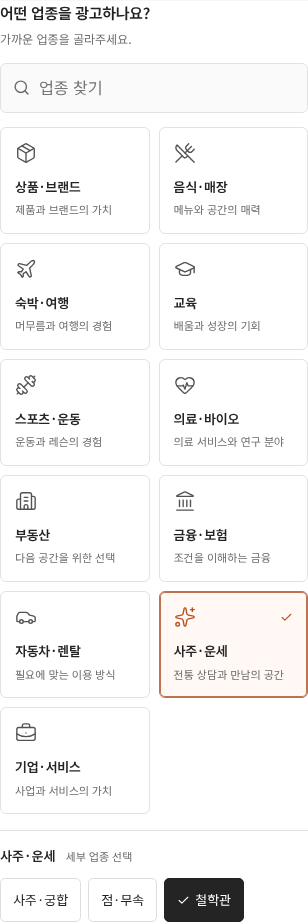
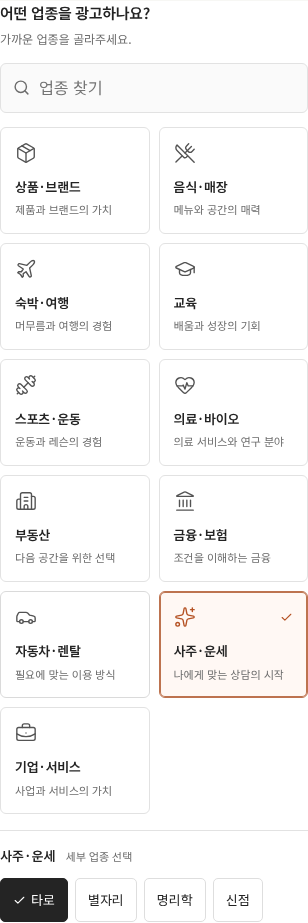
Refine fortune services into four consultation categories

diff --git a/src/industry.ts b/src/industry.ts
@@ -11,9 +11,14 @@ export const productCategories = [
   ['securities', '증권'], ['stocks', '주식'], ['crypto', '코인·디지털 자산'],
   ['finance', '금융'], ['banking', '은행'], ['lease', '리스'], ['rental', '렌탈'],
   ['corporate', '기업 홍보'],
-  ['saju', '사주·궁합'], ['divination', '점·무속'], ['fortunehouse', '철학관'],
+  ['tarot', '타로'], ['astrology', '별자리'], ['myeongri', '명리학'], ['sinjeom', '신점'],
 ] as const;
 export type ProductCategory = typeof productCategories[number][0];
+const legacyCategories:Readonly<Record<string,ProductCategory>>={saju:'myeongri',fortunehouse:'myeongri',divination:'sinjeom'};
+export function resolveIndustryCategory(value:unknown):ProductCategory|undefined {
+  const category=typeof value==='string'?(legacyCategories[value]??value):undefined;
+  return productCategories.find(([id])=>id===category)?.[0];
+}
 export type IndustryGroupId = 'products'|'dining'|'travel'|'learning'|'sports'|'health'|'property'|'finance'|'mobility'|'fortune'|'business';
 export type IndustryGroup = {id:IndustryGroupId;label:string;description:string;categoryIds:readonly ProductCategory[]};
 export const industryGroups:readonly IndustryGroup[] = [
@@ -26,7 +31,7 @@ export const industryGroups:readonly IndustryGroup[] = [
   {id:'property',label:'부동산',description:'다음 공간을 위한 선택',categoryIds:['realestate']},
   {id:'finance',label:'금융·보험',description:'조건을 이해하는 금융',categoryIds:['insurance','securities','stocks','crypto','finance','banking']},
   {id:'mobility',label:'자동차·렌탈',description:'필요에 맞는 이용 방식',categoryIds:['automotive','lease','rental']},
-  {id:'fortune',label:'사주·운세',description:'전통 상담과 만남의 공간',categoryIds:['saju','divination','fortunehouse']},
+  {id:'fortune',label:'사주·운세',description:'나에게 맞는 상담의 시작',categoryIds:['tarot','astrology','myeongri','sinjeom']},
   {id:'business',label:'기업·서비스',description:'사업과 서비스의 가치',categoryIds:['services','corporate']},
 ];
 const physicalCategories:readonly ProductCategory[] = ['packaging','food','beauty','electronics','fashion','home','industrial','other','automotive'];
@@ -213,20 +218,25 @@ const content:Record<ProductCategory,IndustryContent> = {
     ['사업·협력 안내','사업 분야와 문의 방법','함께 만들어갈 기회를 만나보세요','협력 문의'],
     ['사업 정보','제공한 사업과 보유 역량','협력 전에 살펴보는 기업 이야기','사업 분야 보기'],
   ]},
-  saju:{placeholder:'예: 사주·궁합 상담소 이름',audience:'사주·궁합 상담 분야와 예약 방법을 살펴보는 고객',directions:[
-    ['상담소 소개','상담 공간과 대화의 분위기','사주와 궁합, 차분히 이야기해보세요','상담소 보기'],
-    ['상담·예약 안내','상담 주제와 예약 방법','궁금한 주제로 상담을 시작하세요','상담 예약 문의'],
-    ['이용 정보','제공한 상담 방식·시간·비용','방문 전에 살펴보는 상담 안내','이용 정보 보기'],
+  tarot:{placeholder:'예: 타로 상담소 이름',audience:'타로 상담 주제와 예약 방법을 살펴보는 고객',directions:[
+    ['타로 상담 소개','카드와 상담 공간의 분위기','카드와 함께 나누는 나의 이야기','타로 상담 보기'],
+    ['상담·예약 안내','상담 주제와 예약 방법','궁금한 주제로 타로 상담을 시작하세요','타로 예약 문의'],
+    ['이용 정보','제공한 상담 방식·시간·비용','상담 전에 살펴보는 타로 이용 안내','이용 정보 보기'],
   ]},
-  divination:{placeholder:'예: 점·무속 상담소 이름',audience:'점·무속 상담 방식과 이용 정보를 확인하는 고객',directions:[
-    ['상담소 소개','공간과 상담 방식 소개','나의 이야기를 나누는 상담','상담소 보기'],
-    ['상담·예약 안내','상담 일정과 문의 방법','상담 일정과 예약 방법을 만나보세요','예약 문의'],
-    ['이용 정보','제공한 상담 절차와 비용','상담 전에 살펴보는 이용 안내','이용 안내 보기'],
+  astrology:{placeholder:'예: 별자리 상담 서비스 이름',audience:'별자리 상담 내용과 이용 방법을 살펴보는 고객',directions:[
+    ['별자리 상담 소개','별과 상담 브랜드의 분위기','별자리를 주제로 나누는 이야기','별자리 상담 보기'],
+    ['상담·예약 안내','상담 주제와 신청 방법','관심 있는 별자리 상담을 만나보세요','별자리 상담 문의'],
+    ['이용 정보','제공한 상담 과정과 이용 조건','시작 전에 살펴보는 별자리 상담 안내','이용 안내 보기'],
   ]},
-  fortunehouse:{placeholder:'예: 철학관 이름',audience:'철학관의 상담 분야와 방문 방법을 살펴보는 고객',directions:[
-    ['철학관 소개','철학관의 공간과 상담 분야','전통 명리 상담을 만나는 공간','철학관 보기'],
-    ['상담·예약 안내','상담 주제와 방문 예약','궁금한 이야기를 나눌 시간을 예약하세요','방문 예약 문의'],
-    ['상담 분야 안내','제공한 분야·상담 방식·이용 정보','방문 전에 알아보는 상담 분야','상담 분야 보기'],
+  myeongri:{placeholder:'예: 명리학 상담소·철학관 이름',audience:'명리학·사주·궁합 상담 분야와 방문 방법을 살펴보는 고객',directions:[
+    ['명리학 상담 소개','명리학 상담 공간과 분야','사주와 궁합, 차분히 이야기해보세요','명리학 상담 보기'],
+    ['상담·예약 안내','상담 주제와 방문 예약','궁금한 이야기를 나눌 시간을 예약하세요','명리학 예약 문의'],
+    ['상담 분야 안내','제공한 분야·상담 방식·이용 정보','방문 전에 알아보는 명리학 상담 분야','상담 분야 보기'],
+  ]},
+  sinjeom:{placeholder:'예: 신점 상담소 이름',audience:'신점 상담 방식과 예약 정보를 확인하는 고객',directions:[
+    ['신점 상담 소개','공간과 상담 방식 소개','나의 이야기를 나누는 신점 상담','신점 상담 보기'],
+    ['상담·예약 안내','상담 일정과 문의 방법','신점 상담 일정과 예약 방법을 만나보세요','신점 예약 문의'],
+    ['이용 정보','제공한 상담 절차와 비용','상담 전에 살펴보는 신점 이용 안내','이용 안내 보기'],
   ]},
 };
 export const industryPlaceholder = (category:ProductCategory):string => content[category].placeholder;

diff --git a/tests/industries.spec.ts b/tests/industries.spec.ts
@@ -20,7 +20,7 @@ async function serviceWizard(page:Page,category:string,name:string,creative=fals
  await wizard.getByRole('button',{name:'다음',exact:true}).click();return wizard;
 }
 
-test('eleven visual groups reveal only their own industries and all thirty-seven are searchable',async({page})=>{
+test('eleven visual groups reveal only their own industries and all thirty-eight are searchable',async({page})=>{
  test.setTimeout(60000);await page.goto('/');
  await expect(page.locator('.business-options').getByRole('button')).toHaveCount(11);
  await page.getByRole('button',{name:'스포츠·운동 업종으로 광고 만들기',exact:true}).click();
@@ -39,9 +39,9 @@ test('eleven visual groups reveal only their own industries and all thirty-seven
  await expect(picker.getByRole('button',{name:'서비스 업종',exact:true})).toHaveAttribute('aria-pressed','true');
 });
 
-test('service industries including fortune consultations prepare ads without a photo or dimensions',async({page})=>{
+test('service industries including all four fortune consultations prepare ads without a photo or dimensions',async({page})=>{
  test.setTimeout(60000);
- for(const [category,name] of [['pilates','필라테스 스튜디오'],['lodging','모먼트 호텔'],['hospital','한결 의원'],['banking','은행 상담 서비스'],['saju','사주·궁합 상담소'],['divination','점·무속 상담소'],['fortunehouse','전통 철학관']]){
+ for(const [category,name] of [['pilates','필라테스 스튜디오'],['lodging','모먼트 호텔'],['hospital','한결 의원'],['banking','은행 상담 서비스'],['tarot','타로 상담소'],['astrology','별자리 상담소'],['myeongri','명리학 상담소'],['sinjeom','신점 상담소']]){
   const wizard=await serviceWizard(page,category,name,category==='banking');
   await expect(wizard.getByRole('region',{name:'광고 방향과 스타일',exact:true})).toBeVisible();
   await wizard.getByRole('button',{name:'편집 시작',exact:true}).click();await expect(page).toHaveURL(/#studio$/);
@@ -70,14 +70,21 @@ test('selected premium direction and optional notes survive save, import and rea
  await page.getByLabel('프로젝트 파일 선택').setInputFiles({name:'premium-direction.json',mimeType:'application/json',buffer:Buffer.from(JSON.stringify(data))});await expect(page.getByRole('status')).toContainText('프로젝트를 열었습니다');expect((await downloadJSON(page)).campaign.creative).toEqual(data.campaign.creative);
 });
 
-test('older projects keep their source and copy when choosing a new industry and creative look',async({page})=>{
+test('legacy fortune JSON and device projects keep their source and copy with migrated industries',async({page})=>{
  await page.goto('/#studio');const bytes=await sharp({create:{width:400,height:300,channels:4,background:'#b87844'}}).png().toBuffer();
  await page.getByLabel('상품 사진 추가').setInputFiles({name:'original.png',mimeType:'image/png',buffer:bytes});await expect(page.getByRole('status')).toContainText('원본 사진');
  const legacy=await downloadJSON(page);if(legacy.campaign)delete legacy.campaign.creative;
- legacy.copy.ko.title='고객이 작성한 제목';legacy.background.color='#ffeedd';
+ legacy.copy.ko.title='고객이 작성한 제목';legacy.background.color='#ffeedd';legacy.productProfile.category='fortunehouse';
  const confirmImport=page.waitForEvent('dialog').then(async dialog=>{expect(dialog.type()).toBe('confirm');expect(dialog.message()).toBe('저장하지 않은 편집을 닫고 프로젝트를 불러올까요?');await dialog.accept();});
  await page.getByLabel('프로젝트 파일 선택').setInputFiles({name:'legacy-project.json',mimeType:'application/json',buffer:Buffer.from(JSON.stringify(legacy))});await confirmImport;await expect(page.getByRole('status')).toContainText('프로젝트를 열었습니다');
- const loaded=await downloadJSON(page);expect(loaded.copy).toEqual(legacy.copy);expect(loaded.background).toEqual(legacy.background);expect(loaded.product).toEqual(legacy.product);
+ const loaded=await downloadJSON(page);expect(loaded.copy).toEqual(legacy.copy);expect(loaded.background).toEqual(legacy.background);expect(loaded.product).toEqual(legacy.product);expect(loaded.productProfile).toEqual({...legacy.productProfile,category:'myeongri'});
+ const deviceProject={...legacy,id:'legacy-divination-device',name:'이전 신점 프로젝트',productProfile:{...legacy.productProfile,category:'divination'}};
+ await page.evaluate(async project=>{
+  const database=await new Promise<IDBDatabase>((resolve,reject)=>{const request=indexedDB.open('aiadcast-editor',1);request.onupgradeneeded=()=>request.result.createObjectStore('projects',{keyPath:'id'});request.onsuccess=()=>resolve(request.result);request.onerror=()=>reject(request.error);});
+  try{await new Promise<void>((resolve,reject)=>{const transaction=database.transaction('projects','readwrite');transaction.objectStore('projects').put(project);transaction.oncomplete=()=>resolve();transaction.onerror=()=>reject(transaction.error);transaction.onabort=()=>reject(transaction.error);});}finally{database.close();}
+ },deviceProject);
+ await page.goto('/#projects');await page.getByRole('button',{name:/이전 신점 프로젝트/}).click();
+ const migrated=await downloadJSON(page);expect(migrated.productProfile).toEqual({...legacy.productProfile,category:'sinjeom'});expect(migrated.copy).toEqual(legacy.copy);expect(migrated.product).toEqual(legacy.product);expect(migrated.dimensions).toEqual(legacy.dimensions);
  await selectIndustry(page,'corporate');
  const options=page.locator('.editor-container:visible .creative-options-compact');await options.locator('summary').click();
  await options.locator('.creative-look-card').filter({hasText:'모던 테크'}).click();let updated=await downloadJSON(page);

diff --git a/src/conversation.ts b/src/conversation.ts
@@ -1,5 +1,6 @@
 import type {Project} from './model.ts';
 import {isImageFormat} from './formats.ts';
+import {resolveIndustryCategory} from './industry.ts';
 export const directionScopes=[['auto','요청 전체'],['background','배경'],['lighting','조명·분위기'],['composition','구도·연출'],['print','상품 인쇄'],['product-color','상품 색상'],['copy','광고 문구'],['format','비율·규격 표시']] as const;
 export type DirectionScope=typeof directionScopes[number][0];
 export type QuickEdit={kind:'background';value:string}|{kind:'title';value:string}|{kind:'format';value:Project['format']}|{kind:'dimensions';value:boolean};
@@ -62,7 +63,7 @@ export function appendDirection(p:Project,text:string,scope:DirectionScope,allow
  const turn:DirectionTurn={id:crypto.randomUUID(),text:trimmed,scope:resolved,allowAppearanceChange:changesProduct(resolved)&&allowAppearanceChange,state:'recorded',createdAt:new Date().toISOString(),context:{sourceHash:p.product?.sha256??null,locale:p.locale,category:p.productProfile.category,productName:p.productName},before:priorValue(p,quickEdit(trimmed,resolved))};
  return {...p,conversation:{version:1,turns:[...c.turns,turn]}};
 }
-export function directionIsCurrent(p:Project,t:DirectionTurn){return t.context.sourceHash===(p.product?.sha256??null)&&t.context.locale===p.locale&&t.context.category===p.productProfile.category&&t.context.productName===p.productName;}
+export function directionIsCurrent(p:Project,t:DirectionTurn){return t.context.sourceHash===(p.product?.sha256??null)&&t.context.locale===p.locale&&resolveIndustryCategory(t.context.category)===p.productProfile.category&&t.context.productName===p.productName;}
 export function quickEditIssue(p:Project,t:DirectionTurn):string|null{
  const edit=quickEdit(t.text,t.scope);
  if(t.state!=='recorded'||!edit)return '이 요청은 바로 편집할 수 없습니다.';

diff --git a/src/storage.ts b/src/storage.ts
@@ -1,4 +1,5 @@
 import type { Project } from './model';
+import {parseProfile} from './product';
 async function db(){return new Promise<IDBDatabase>((resolve,reject)=>{const req=indexedDB.open('aiadcast-editor',1);req.onupgradeneeded=()=>req.result.createObjectStore('projects',{keyPath:'id'});req.onsuccess=()=>resolve(req.result);req.onerror=()=>reject(req.error);});}
 export async function saveProject(p:Project){const database=await db();try{await new Promise<void>((resolve,reject)=>{const tx=database.transaction('projects','readwrite');tx.objectStore('projects').put(p);tx.oncomplete=()=>resolve();tx.onerror=()=>reject(tx.error);tx.onabort=()=>reject(tx.error);});}finally{database.close();}}
-export async function projects(){const database=await db();try{return await new Promise<Project[]>((resolve,reject)=>{const req=database.transaction('projects').objectStore('projects').getAll();req.onsuccess=()=>resolve((req.result as Project[]).sort((a,b)=>b.updatedAt.localeCompare(a.updatedAt)));req.onerror=()=>reject(req.error);});}finally{database.close();}}
+export async function projects(){const database=await db();try{return await new Promise<Project[]>((resolve,reject)=>{const req=database.transaction('projects').objectStore('projects').getAll();req.onsuccess=()=>{try{resolve((req.result as Project[]).map(p=>({...p,productProfile:parseProfile(p.productProfile)})).sort((a,b)=>b.updatedAt.localeCompare(a.updatedAt)));}catch(error){reject(error);}};req.onerror=()=>reject(req.error);});}finally{database.close();}}

diff --git a/src/product.ts b/src/product.ts
@@ -1,5 +1,5 @@
 import type {Project} from './model.ts';
-import {productCategories,isPhysicalCategory} from './industry.ts';
+import {isPhysicalCategory,resolveIndustryCategory} from './industry.ts';
 import type {ProductCategory} from './industry.ts';
 export {productCategories} from './industry.ts';
 export type {ProductCategory} from './industry.ts';
@@ -17,8 +17,9 @@ export function parseProfile(value:unknown):ProductProfile {
   if(value===undefined)return defaultProfile(); // Earlier project files remain compatible.
   if(!value||typeof value!=='object')throw Error('상품 정보 형식이 올바르지 않습니다.');
   const p=value as ProductProfile;
-  if(!productCategories.some(([key])=>key===p.category)||!specTypes.some(([key])=>key===p.specType)||typeof p.material!=='string'||p.material.length>160)throw Error('상품 분류 또는 규격 형식을 확인해주세요.');
-  return {category:p.category,specType:p.specType,material:p.material};
+  const category=resolveIndustryCategory(p.category);
+  if(!category||!specTypes.some(([key])=>key===p.specType)||typeof p.material!=='string'||p.material.length>160)throw Error('상품 분류 또는 규격 형식을 확인해주세요.');
+  return {category,specType:p.specType,material:p.material};
 }
 export function dimensionAxes(profile?:ProductProfile):('width'|'depth'|'height')[] {
   if(profile?.specType==='none')return [];

diff --git a/README.md b/README.md
@@ -18,9 +18,9 @@
 
 ## 업종별 광고 방향과 프리미엄 스타일
 
-**11개 업종 카드 → 선택한 그룹의 세부 업종 → 광고 방향**으로 고릅니다. 음식점·식품·숙박·여행·리스/렌탈·교육·운동·병원·바이오·부동산·금융/보험·사주/운세 등 총 37개 분류를 제공합니다. 편집기에서는 업종 선택을 접어두고 검색하거나 변경할 수 있습니다.
+**11개 업종 카드 → 선택한 그룹의 세부 업종 → 광고 방향**으로 고릅니다. 음식점·식품·숙박·여행·리스/렌탈·교육·운동·병원·바이오·부동산·금융/보험·사주/운세 등 총 38개 분류를 제공합니다. 편집기에서는 업종 선택을 접어두고 검색하거나 변경할 수 있습니다.
 
-사주·운세 그룹에서 사주·궁합, 점·무속, 철학관을 선택할 수 있습니다. 소개, 상담·예약, 이용 정보에 맞춰 광고를 준비하며 미래나 효능을 보장하는 문구를 추천하지 않습니다.
+사주·운세 카드를 열면 **타로·별자리·명리학·신점** 네 가지로 구분해 선택할 수 있습니다. 각 분야의 소개, 상담·예약, 이용 정보에 맞춰 광고를 준비합니다.
 
 각 업종에 맞는 목적 3가지와 에디토리얼·시그니처·내추럴·모던 테크 4가지 스타일을 선택합니다. 추가 요청은 선택 사항이며, 선택만으로 기본 문구·배경색·장식을 적용한 편집 초안을 시작할 수 있습니다. 서비스는 사진·규격 없이 시작하고, 실물 규격이 필요하면 업종과 관계없이 직접 켤 수 있습니다. 목적·스타일·추가 입력은 저장·백업·생성 요청에 함께 포함됩니다.
 
@@ -54,7 +54,7 @@
 
 `release/aiadcast-studio.html`을 PC에 내려받아 Chrome 또는 Edge에서 여세요. 글꼴과 프로그램을 포함한 단일 파일이며 별도 설치가 필요 없습니다. 휴대폰 화면에 맞게 구성했지만, 모바일의 로컬 HTML 실행·다운로드 지원은 앱/브라우저마다 다릅니다. Android 설치 파일과 공개 체험 URL은 아직 제공하지 않습니다.
 
-1. 광고 정보에서 ‘사진과 문구로 직접 만들기’(기본) 또는 ‘새로운 광고 이미지 만들기’를 선택합니다. 광고 업종과 사진을 입력합니다. 서비스 28종은 사진이 선택 사항입니다. 배경이 있는 사진은 배경도 그대로 표시됩니다. 상품만 사용하려면 투명 PNG를 넣으세요.
+1. 광고 정보에서 ‘사진과 문구로 직접 만들기’(기본) 또는 ‘새로운 광고 이미지 만들기’를 선택합니다. 광고 업종과 사진을 입력합니다. 서비스 29종은 사진이 선택 사항입니다. 배경이 있는 사진은 배경도 그대로 표시됩니다. 상품만 사용하려면 투명 PNG를 넣으세요.
 2. ‘문구·언어’에서 한국어와 영어 문구를 각각 입력합니다. 초기 문구는 예시이며 자동 번역되지 않습니다.
 3. ‘배경’에서 색상이나 배경 사진을 교체합니다.
 4. ‘규격’에서 직육면체·평면·지름/높이·표시 없음 중 선택하고 치수를 입력합니다. ‘표시 안 함 / 규격 요약만 / 요약과 치수선’ 중 하나를 선택합니다. 숨겨도 치수 입력값은 보존됩니다. 선의 두 점은 직접 맞춥니다.
@@ -66,18 +66,18 @@
 
 ## 이미지 제작 방식
 
-- 사진과 문구로 직접 만들기: 현재 동작하는 직접 편집입니다. 사진·문구·배경·선택한 규격 표시를 편집하고 PNG로 내보냅니다. 서비스 28종은 사진 없이 문구와 배경으로 구성할 수 있습니다.
+- 사진과 문구로 직접 만들기: 현재 동작하는 직접 편집입니다. 사진·문구·배경·선택한 규격 표시를 편집하고 PNG로 내보냅니다. 서비스 29종은 사진 없이 문구와 배경으로 구성할 수 있습니다.
 - 새로운 광고 이미지 만들기: 사진과 광고 내용을 참고 자료로 두고 새로운 광고의 제작 방향을 저장합니다. 규격을 사용하는 프로젝트만 치수를 함께 참고합니다. 새 상품이나 장면은 원본과 다르게 표현될 수 있으며 실물 형상·설계도 재현을 보장하지 않습니다. 현재 AI 연결 전이므로 생성 결과 대신 참고 사진을 표시하고 생성/PNG 출력을 막습니다.
 
 제작 방식과 규격의 사용/표시 여부는 각각 선택합니다. 규격을 사용하는 프로젝트는 표시를 숨겨도 치수를 참고값으로 포함합니다. 규격 사용을 끈 프로젝트는 생성 요청에 치수를 넣지 않습니다. 선택과 요청 문구는 저장·복원되며, 원본 방식으로 돌아오면 같은 첨부 파일과 편집 정보를 다시 사용합니다. 예전 프로젝트는 원본 보존 방식으로 열립니다.
 
 ## 규격 없는 업종 광고
 
-서비스 28종과 자동차·모빌리티로 업종을 바꾸면 ‘규격 정보 사용’이 기본적으로 꺼집니다. 새 광고는 모든 업종에서 규격이 선택 사항입니다. 필요한 경우 직접 규격 사용을 켤 수 있으며, 같은 업종을 다시 선택해도 사용자가 켠 규격 설정을 유지합니다.
+서비스 29종과 자동차·모빌리티로 업종을 바꾸면 ‘규격 정보 사용’이 기본적으로 꺼집니다. 새 광고는 모든 업종에서 규격이 선택 사항입니다. 필요한 경우 직접 규격 사용을 켤 수 있으며, 같은 업종을 다시 선택해도 사용자가 켠 규격 설정을 유지합니다.
 
 - **규격 사용 안 함:** 치수 입력을 요구하지 않고 생성 요청의 specifications는 빈 배열입니다. 치수선과 규격 표를 만들지 않으며 사진이 있으면 그 공간을 사진 영역으로 활용합니다. 이전에 입력한 수치는 기기/백업 데이터에만 남겨 복구할 수 있게 합니다.
 - **규격 사용 + 표시 안 함:** 치수를 생성 참고값으로 사용하면서 완성 이미지에서는 숨깁니다. ‘규격 없음’과 다른 설정입니다.
-- **서비스 28종:** 상품·서비스명, 서비스 내용, 광고 문구를 저장할 수 있습니다. 사진 없이 문구·배경만으로 PNG를 만들거나 교실·상담·매장 사진 및 로고를 사용할 수 있습니다. 사진 없는 창작 요청도 업종별 추천 방향만으로 준비할 수 있으며, 실제 AI 연결 전까지 생성은 대기 상태입니다.
+- **서비스 29종:** 상품·서비스명, 서비스 내용, 광고 문구를 저장할 수 있습니다. 사진 없이 문구·배경만으로 PNG를 만들거나 교실·상담·매장 사진 및 로고를 사용할 수 있습니다. 사진 없는 창작 요청도 업종별 추천 방향만으로 준비할 수 있으며, 실제 AI 연결 전까지 생성은 대기 상태입니다.
 - **자동차:** 치수 없이 실제 차량 사진을 사용하는 광고를 만들 수 있습니다. ‘사진과 문구로 직접 만들기’에서 차량을 다른 차로 다시 그리지 않습니다. 실제 차량 보존 모드에서는 원본 사진이 필요합니다.
 
 기존에 입력한 문구·사진·치수 값은 업종을 바꿔도 지워지지 않습니다. 필요하면 ‘규격 정보 사용’을 켜고 규격 형식을 선택한 뒤, 표시 여부를 직접 정하세요. 보험의 보장 내용·가격·조건 등을 자동으로 만들어 넣는 기능은 없으며 광고 문구에 직접 입력합니다.

diff --git a/docs/industry-advertising.md b/docs/industry-advertising.md
@@ -16,15 +16,15 @@
 | 금융·보험 | 보험, 증권, 주식, 코인·디지털 자산, 금융, 은행 |
 | 자동차·렌탈 | 자동차·모빌리티, 리스, 렌탈 |
 | 기업·서비스 | 서비스 업종, 기업 홍보 |
-| 사주·운세 | 사주·궁합, 점·무속, 철학관 |
+| 사주·운세 | 타로, 별자리, 명리학, 신점 |
 
-총 37개 분류이며, 위 표는 개발·검토용 전체 목록이다. 앱에서는 그룹과 선택한 세부 업종으로 나누어 보여준다.
+총 38개 분류이며, 위 표는 개발·검토용 전체 목록이다. 앱에서는 그룹과 선택한 세부 업종으로 나누어 보여준다. 사주·운세 카드를 열면 타로·별자리·명리학·신점 네 가지를 선택할 수 있다.
 
 ## 요청문 없이 고르는 제작 방향
 
 새 제작은 업종과 이름 → 사진·정보 → 광고 방향으로 이어진다. 업종별 목적 카드 3개와 공통 시각 스타일 4개를 제공한다. 목적의 이름·문구·행동 안내는 업종에 맞게 바뀐다. 예를 들어 음식점은 매장 소개/방문·예약 안내/메뉴 이야기, 필라테스는 스튜디오 소개/수업·체험 안내/프로그램 소개, 은행은 은행·서비스 소개/이용·상담 안내/상품·조건 안내를 고른다.
 
-사주·운세 그룹은 소개, 상담·예약, 이용 정보의 세 방향을 제공한다. 상담 분야·이용 방법 등 사업자가 제공한 정보를 바탕으로 구성하고 미래나 효능을 보장하는 문구를 추천하지 않는다.
+사주·운세의 네 분야는 각각 소개, 상담·예약, 이용 정보의 세 방향을 제공한다. 상담 분야·이용 방법 등 사업자가 제공한 정보를 바탕으로 구성한다.
 
 스타일은 에디토리얼, 시그니처, 내추럴, 모던 테크다. 편집용 색상·글자 대비·절제된 벡터 장식을 적용하며 원본 상품 사진을 다시 그리지 않는다. 화면의 미니 스타일 카드는 디자인 참고 그림이고 AI 생성 사례가 아니다.
 
@@ -34,13 +34,13 @@
 
 ## 상품·서비스·규격
 
-서비스 28종은 사진과 규격 없이 시작할 수 있다. 실물 상품 8종과 자동차는 원본 사진으로 직접 구성할 때 사진이 필요하다. 실제 음식 제품은 ‘식품·음료’, 음식점·메뉴·매장 안내는 ‘음식점’처럼 광고 대상에 맞춰 선택한다.
+서비스 29종은 사진과 규격 없이 시작할 수 있다. 실물 상품 8종과 자동차는 원본 사진으로 직접 구성할 때 사진이 필요하다. 실제 음식 제품은 ‘식품·음료’, 음식점·메뉴·매장 안내는 ‘음식점’처럼 광고 대상에 맞춰 선택한다.
 
 모든 업종에서 필요한 경우 규격 정보 사용을 켜고 형식과 표시 여부를 선택할 수 있다. 현재 치수 입력은 실물의 mm 치수다. 부동산 면적·이용 기간·수량·요금 등 다른 단위의 사업 정보는 서비스 소개나 추가 속성으로 입력한다. 업종을 서비스로 바꾸면 규격 사용·표시를 끄되 기존 치수 값과 사진·문구를 지우지 않는다. 원본 보존/창작 선택과 규격 표시 선택은 별도로 유지한다.
 
 ## 저장과 생성 요청
 
-기존 카테고리 ID와 프로젝트 형식을 유지했다. `campaign.creative`에 목적 ID·스타일 ID·선택 입력을 보관하고, 이전 프로젝트에는 이 필드가 없어도 열린다. 기기 저장·JSON 백업·복원과 생성 기획 내보내기에 포함한다.
+기존 프로젝트 형식을 유지하며 이전 사주·궁합과 철학관 프로젝트는 명리학으로, 점·무속 프로젝트는 신점으로 복원한다. JSON 가져오기와 기기 저장본 복원에 적용하며 기존 사진·문구·규격은 유지한다. `campaign.creative`에 목적 ID·스타일 ID·선택 입력을 보관하고, 이전 프로젝트에는 이 필드가 없어도 열린다. 기기 저장·JSON 백업·복원과 생성 기획 내보내기에 포함한다.
 
 생성 기획에는 업종 그룹·세부 업종·목적·시각 스타일 참고·현재 확정된 배경과 글자색·추가 지시를 함께 넣는다. 사용자가 나중에 직접 바꾼 화면 정보가 스타일의 참고 색상보다 우선한다. 상품 원본·치수·언어·고객이 제공한 사실 정보를 별도로 유지한다. 제품 효능·임상 결과·투자 수익·금리·가격·인증 등을 입력 사실 없이 만들지 않는 조건도 포함한다. 실제 모델의 이 조건 준수는 공급사 연결 후 추가 검증해야 한다.
 

diff --git a/docs/validation.md b/docs/validation.md
@@ -150,3 +150,10 @@
 - 사주·운세 그룹에 사주·궁합, 점·무속, 철학관을 추가했다. 현재 11개 그룹·37개 업종이며 서비스는 28종이다. 홈·제작·편집기의 기존 카드/검색 방식으로 선택하고, 소개·상담 예약·이용 정보에 맞는 방향과 문구를 제공한다. 사진과 규격은 선택 사항이다.
 - 관련 도메인 검사(`industry.test.mjs`, `creative.test.mjs`) **14개 통과**, 관련 PC·모바일 브라우저 검사(`industries.spec.ts`) **10개 통과**. 전체 업종 검색, 새 3개 업종의 사진·규격 없는 제작과 기획 내보내기, 저장·복원·PNG 출력 및 모바일 화면 폭을 확인했다. 전체 다른 검사 파일은 이번에 재실행하지 않았다.
 - TypeScript·Vite·단일 HTML 빌드 성공. 단일 HTML에서 새 그룹을 선택하고 철학관 세부 업종을 고르는 동작을 확인해 `docs/previews/fortune-industry-mobile.png`에 화면을 보관했다. 실제 AI 연결·공개 앱 배포 작업은 수행하지 않았다.
+
+## 사주·운세 세부 분야 재구분 — 2026-10-09
+
+- 사주·운세 카드의 세부 선택을 타로·별자리·명리학·신점 네 가지로 변경했다. 전체 11개 그룹·38개 업종, 서비스 29종이다. 각 분야에 맞는 소개·상담 예약·이용 안내와 추천 문구를 연결했다.
+- 이전 사주·궁합/철학관 분류는 명리학, 점·무속 분류는 신점으로 복원한다. JSON 가져오기와 IndexedDB 저장본 읽기에서 사진·문구·치수·프로젝트 식별자를 유지한다. 이름만 변경된 이전 대화 요청은 계속 사용하며 실제로 다른 업종으로 바꾸면 이전 요청을 섞지 않는다.
+- 관련 도메인 검사 25개(`industry`, `creative`, `conversation`), PC·모바일 업종 검사 10개가 모두 통과했다. 네 분야의 검색·사진/규격 없는 제작, 구형 JSON/기기 저장본 복원, 요청 이력 호환, 저장·PNG 출력 및 모바일 폭을 포함한다. 이번 변경과 무관한 전체 검사 파일은 재실행하지 않았다.
+- TypeScript·Vite·단일 HTML 빌드를 완료하고 독립 HTML의 실제 선택 화면으로 `docs/previews/fortune-industry-mobile.png`를 갱신했다. 실제 AI 연결이나 공개 앱 배포는 수행하지 않았다.

diff --git a/docs/funding-technical-brief.md b/docs/funding-technical-brief.md
@@ -33,7 +33,7 @@
 
 - 모바일/PC 반응형 홈, 3단계 제작, 프로젝트 목록·검색, 사용 안내, 편집 화면.
 - 상품 사진 원본 바이트·SHA-256·화면비 보존, 한/영 문구 직접 편집, 배경 변경.
-- 11개 그룹·37개 업종 카드 선택, 업종별 광고 방향과 스타일 추천, 선택적 규격. 사주·운세 그룹의 사주·궁합, 점·무속, 철학관을 포함하며 소개·상담 예약·이용 정보를 안내한다.
+- 11개 그룹·38개 업종 카드 선택, 업종별 광고 방향과 스타일 추천, 선택적 규격. 사주·운세 카드에서 타로·별자리·명리학·신점 네 분야를 구분해 선택하고 소개·상담 예약·이용 정보를 안내한다.
 - 대화 요청 보관·수정 범위 선택·확인 후 빠른 편집·대화 백업. 실제 AI 대화는 연결 전.
 - 정면 사진에서 사용자 지정 두 변과 규격 비례 비교. 실물 전체의 3D 재현은 아님.
 - 7개 광고 비율의 PNG 출력, IndexedDB 기기 저장, 프로젝트 JSON 백업·복원.
